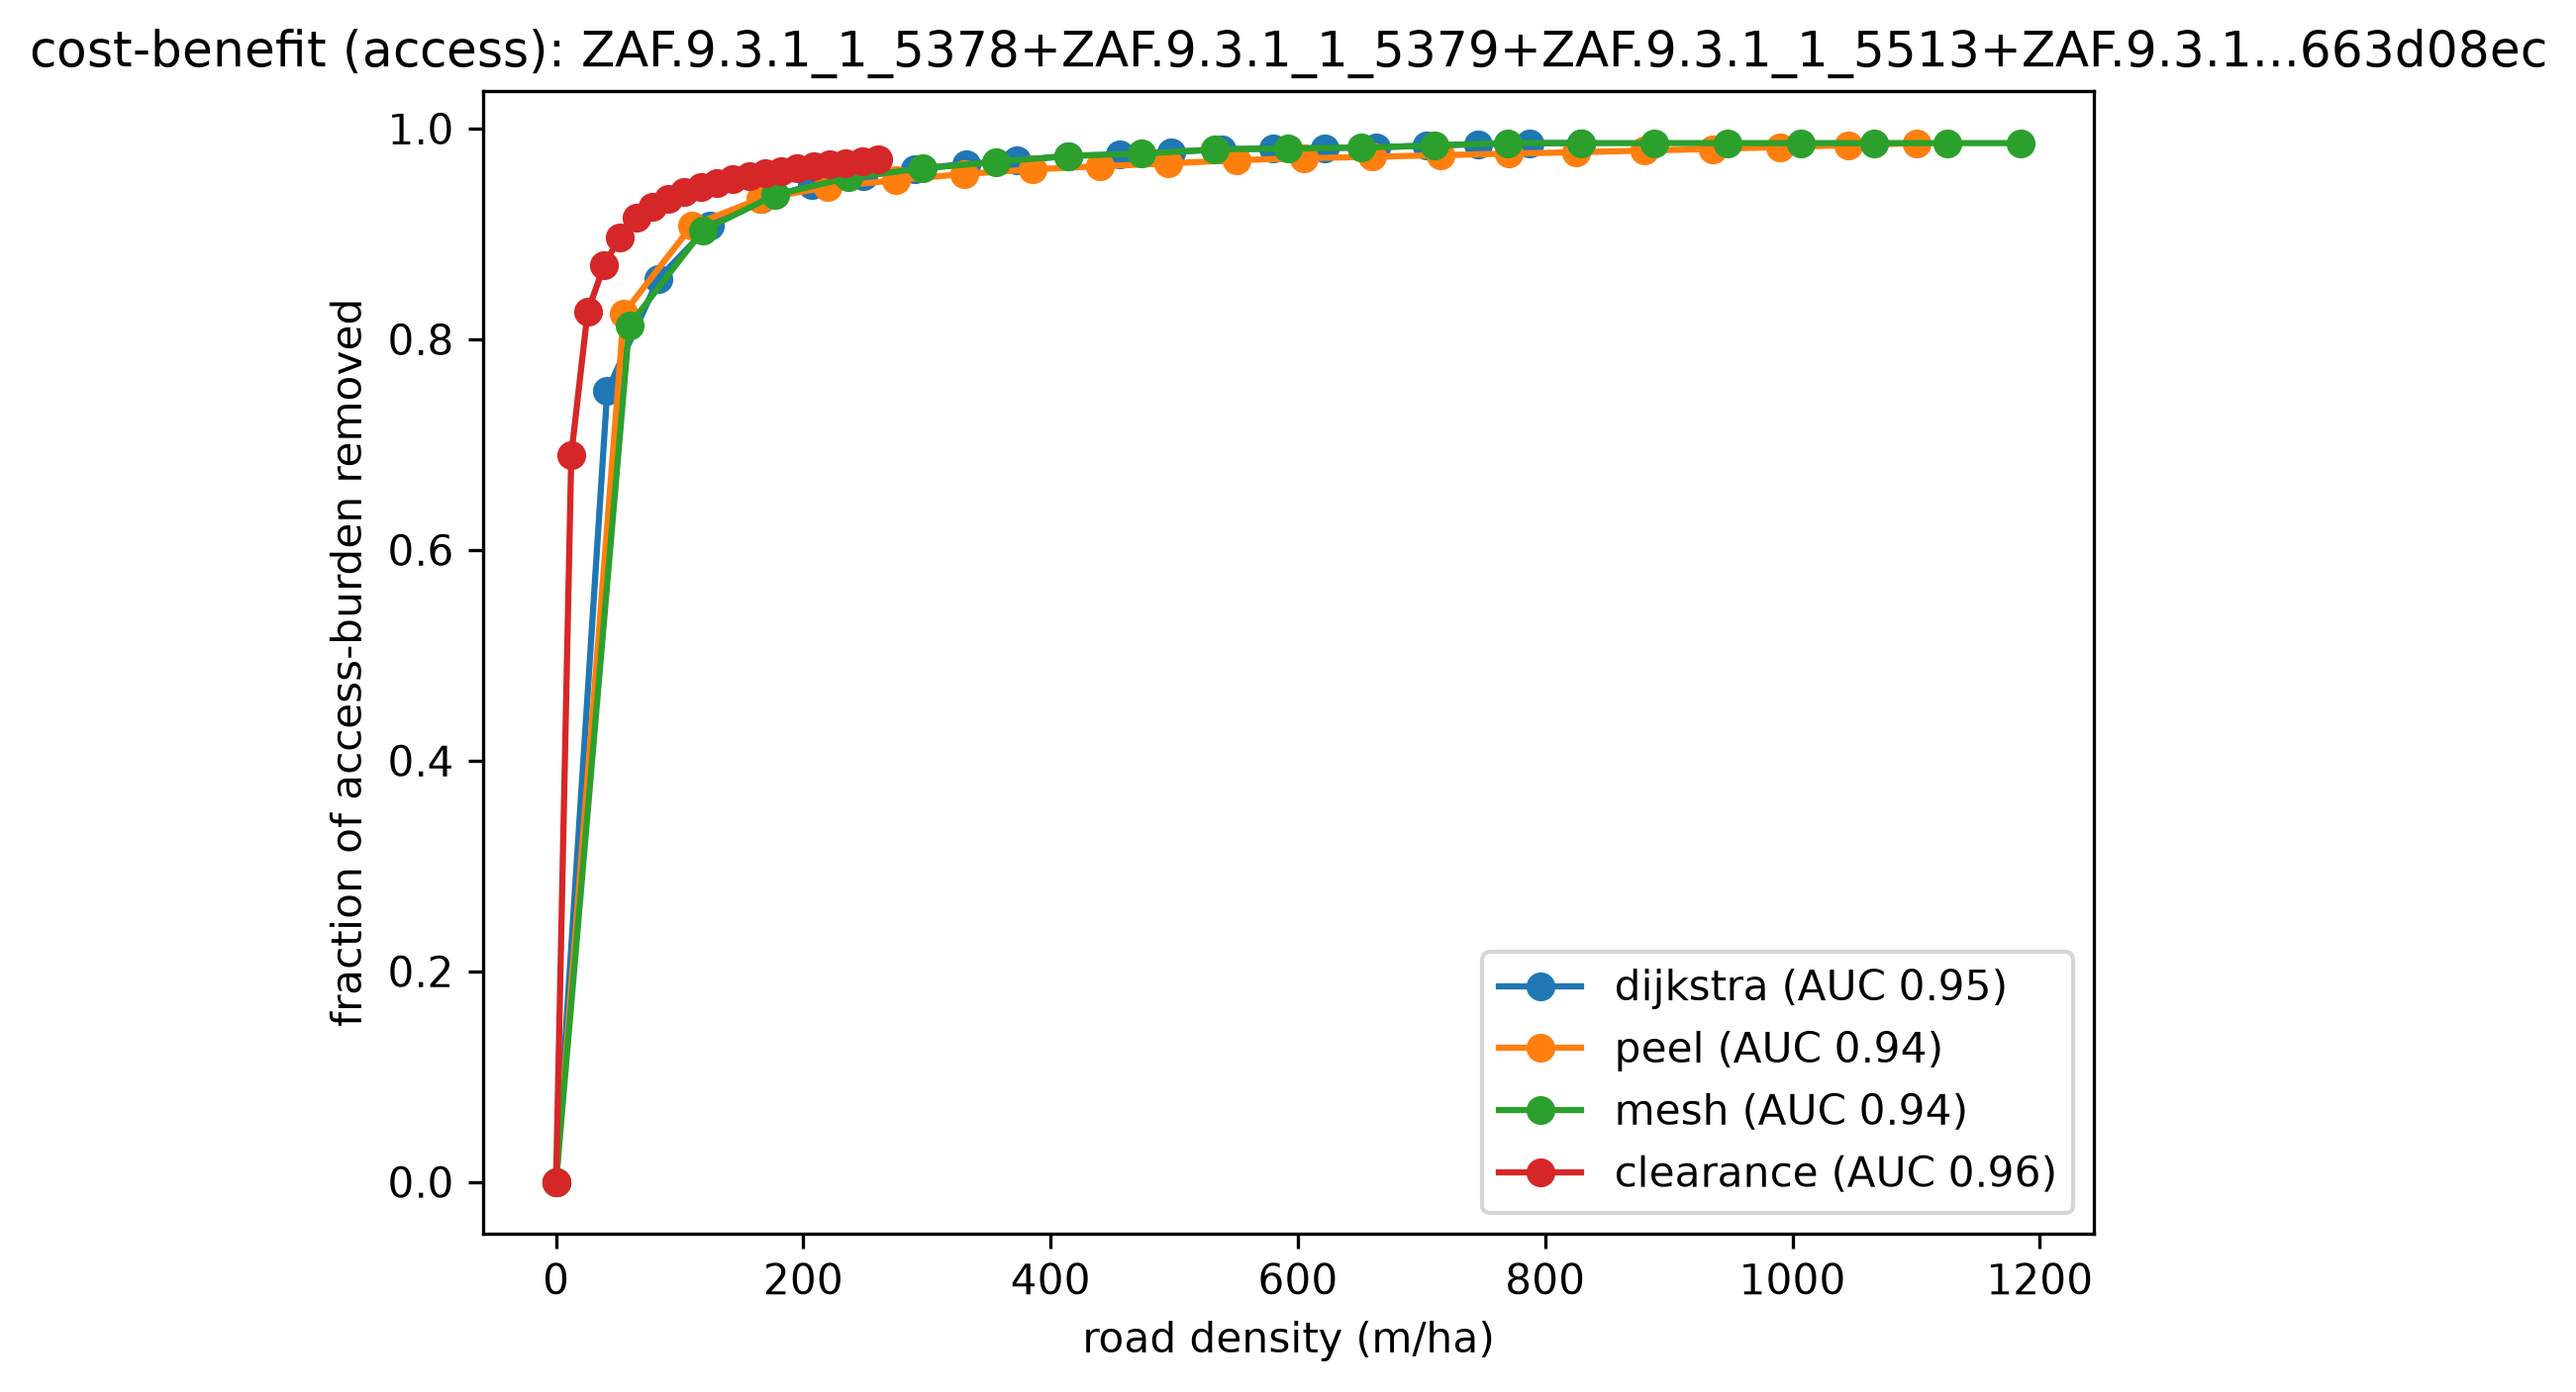
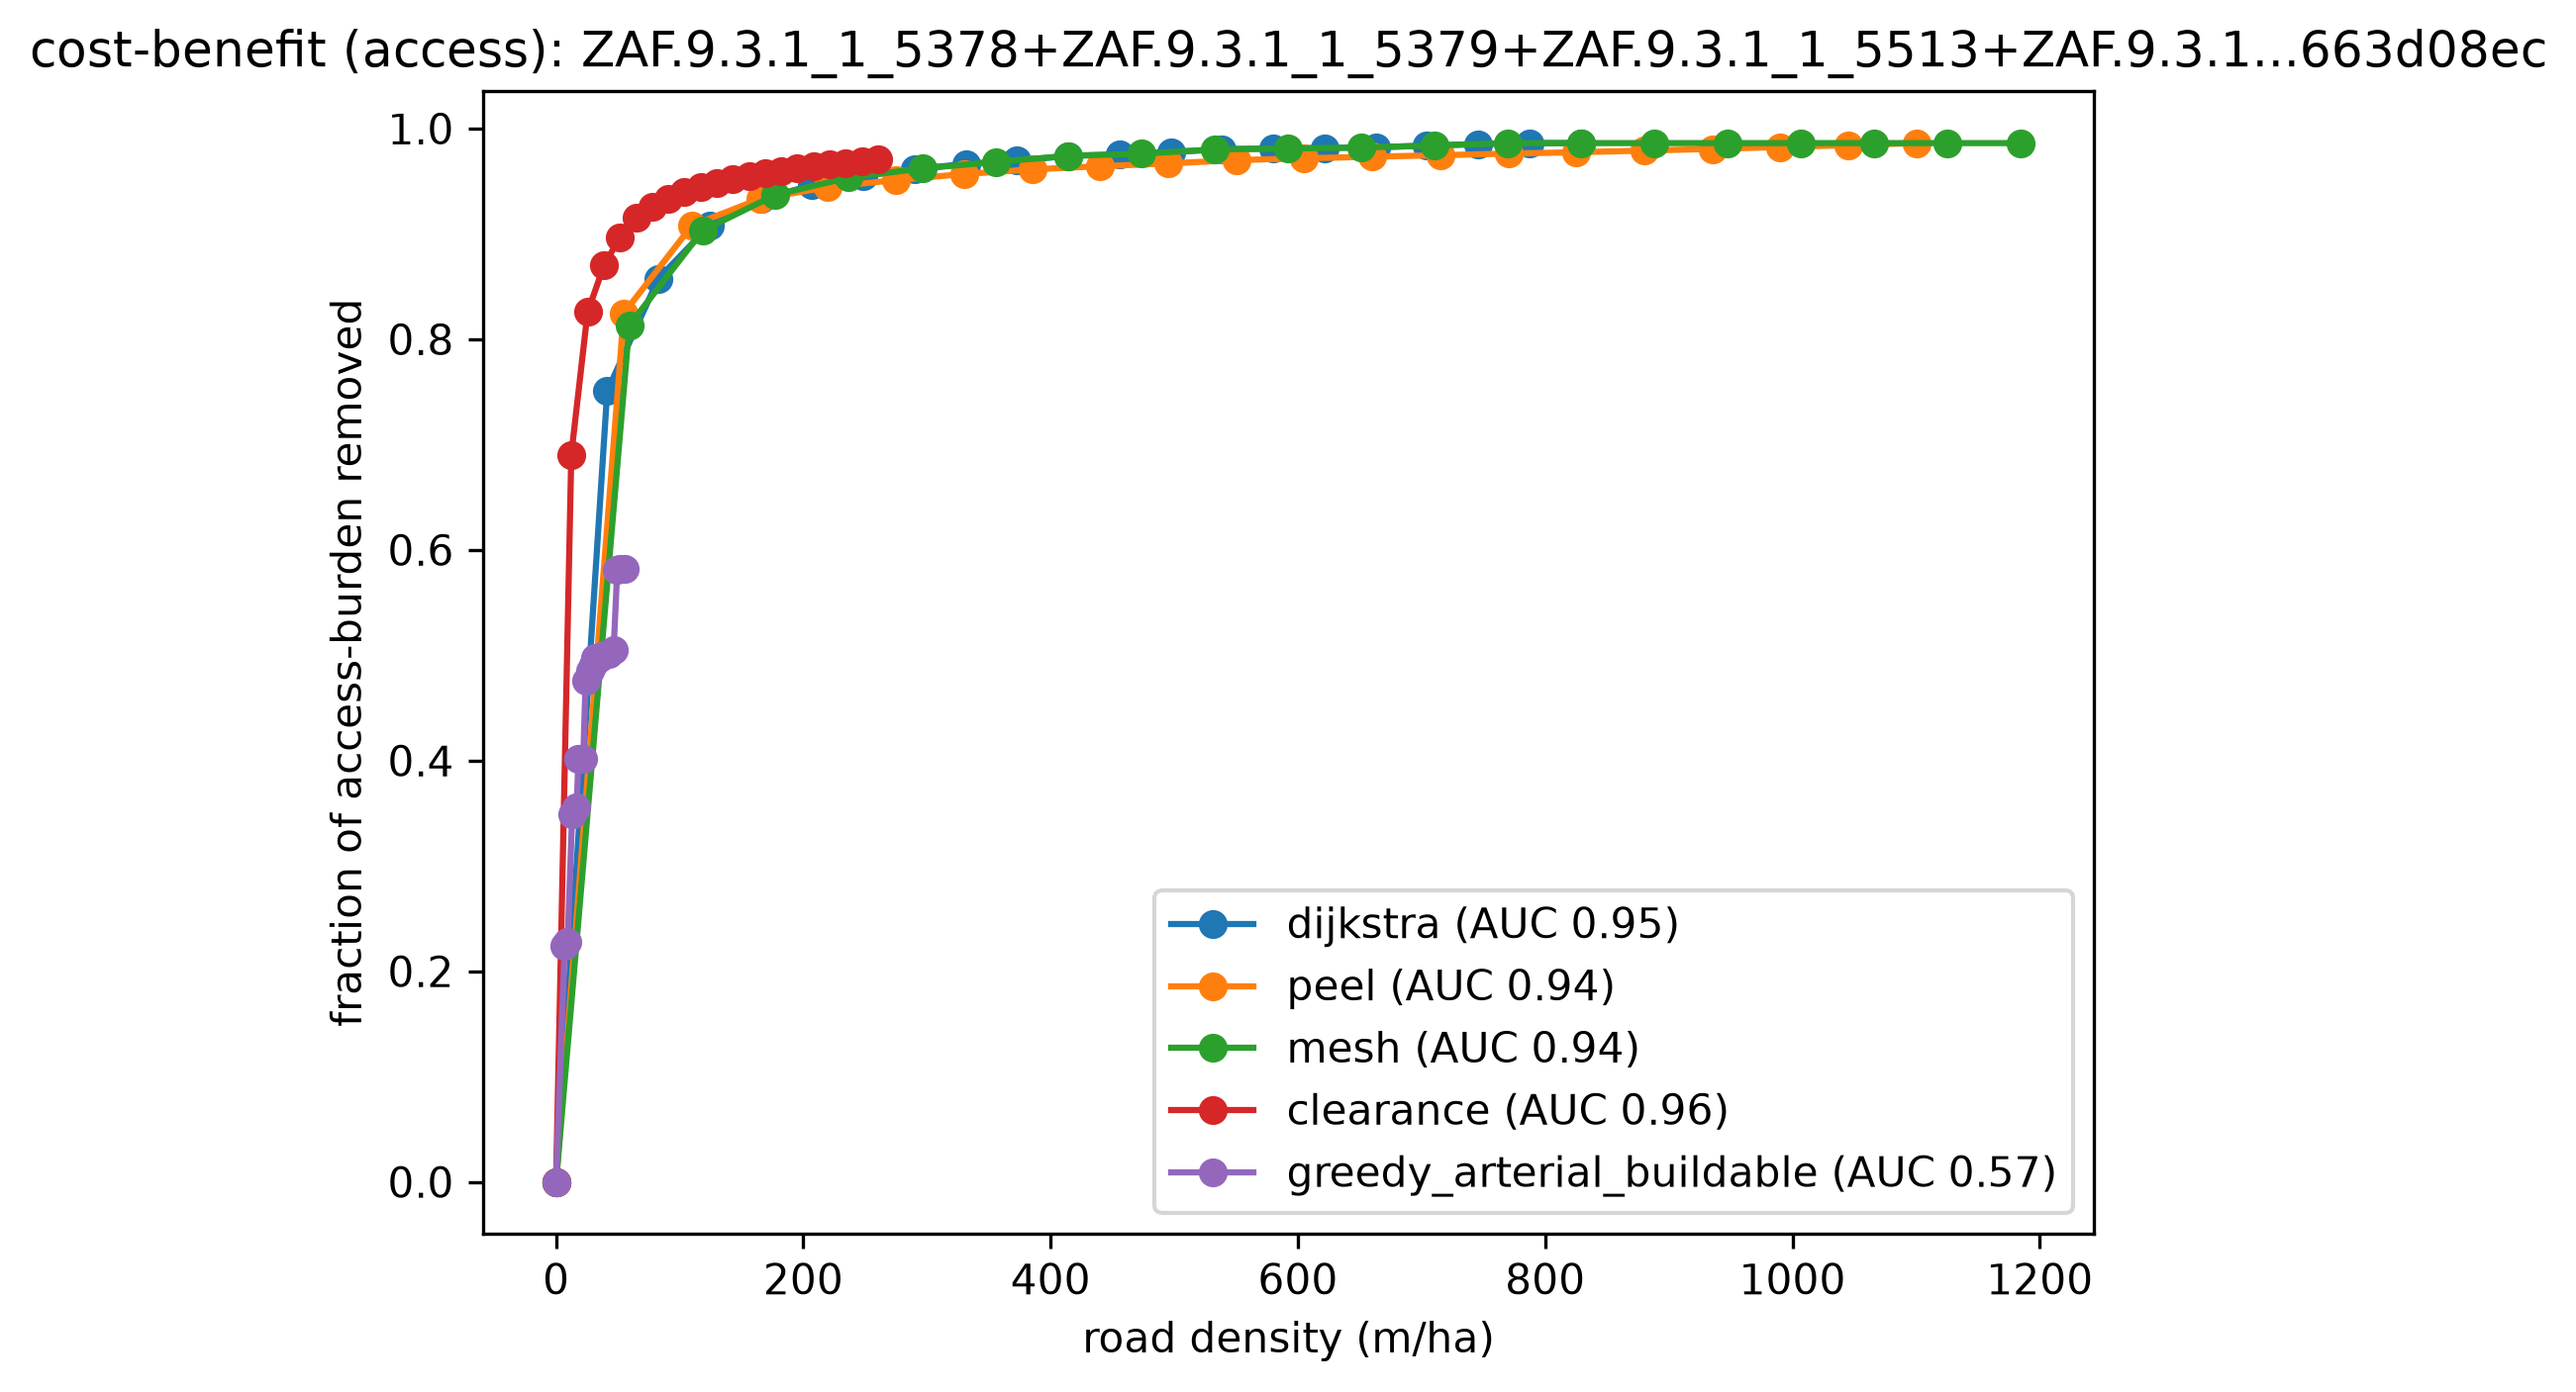
docs(multiblock): arterial rejoins via CELF; efficiency + displacement + %-paved/displaced

diff --git a/examples/multiblock/README.md b/examples/multiblock/README.md
@@ -7,8 +7,9 @@ through it so every home lands within **3 parcels of a street** — then compare
 
 Reproduces from **`capetown_full`** (the full metro, auto-downloaded to `~/.cache/reblock` on first
 use) via plain CLI commands. For the *comprehensive* method bake-off — all six reblockers, including
-the two that don't scale to a region (`topology`, `greedy_arterial`) — see
-[`method-comparison`](../method-comparison/) on a single deep block.
+`topology`, which is single-block-only — see [`method-comparison`](../method-comparison/) on a single
+deep block. (`greedy_arterial` used to be region-intractable too; **CELF/lazy now brings it back** —
+it's in the §4 comparison below.)
 
 ## 1. Screen the metro
 
@@ -59,30 +60,68 @@ takes the screen's deepest block as the seed; `region_map.enabled` writes `scree
 ## 4. Compare the methods that scale
 
 The same 10,700-home region, graded on the four lenses for the methods that run at settlement scale.
-`topology` (single-block only) and full `greedy_arterial` (~55 s/road) don't — for the six-method
+Only `topology` (single-block-only) is excluded now — **`greedy_arterial` rejoins** via CELF/lazy
+(`candidate_policy=fixed` + `max_anchors=64` bound its candidate pass, so its 15 through-roads take
+~30 s on the whole region instead of the ~48 min the uncapped greedy needed). For the six-method
 bake-off on a small block, see [`method-comparison`](../method-comparison/).
 
 ```bash
 pixi run python -m reblock.compare \
   data=capetown_full region_builder=dense_cluster region_builder.max_buildings=3000 \
-  "block_ids=[[ZAF.9.3.1_1_5810]]" methods=[dijkstra,peel,mesh,clearance] max_blocks=1 \
-  all_methods.clearance.max_roads=3000
+  "block_ids=[[ZAF.9.3.1_1_5810]]" \
+  methods=[dijkstra,peel,mesh,clearance,greedy_arterial_buildable] max_blocks=1 \
+  all_methods.clearance.max_roads=3000 \
+  all_methods.greedy_arterial_buildable.candidate_policy=fixed \
+  +all_methods.greedy_arterial_buildable.max_anchors=64
 ```
 
-| lens | dijkstra | peel | mesh | clearance |
-|---|---|---|---|---|
-| access — burden removed | 0.94 | 0.94 | 0.94 | **0.96** |
-| resistance — egress removed | **0.64** | 0.50 | 0.61 | 0.42 |
-| directness — 1/circuity | 0.00 | 0.00 | 0.05 | **0.08** |
-| efficiency — network E | 0.00 | 0.00 | 0.00 | 0.00 |
+Mean AUC per method (benefit per metre of road; higher = better), with **`% paved`** = fraction of
+the region's area under the road corridor:
 
-At this scale every method blankets access near-perfectly (~0.94–0.96) — a deep region is exactly
-where roads matter most. **clearance is the best all-rounder**: it edges out the coverage methods on
-access *and* leads directness (its least-cost roads cut more direct interior routes). **dijkstra wins
-resistance** — its frontage spanning tree gives the most redundant egress. So at scale: clearance for
-a navigable, well-covered reblock; dijkstra when egress redundancy is the goal.
+| lens | dijkstra | peel | mesh | clearance | arterial |
+|---|---|---|---|---|---|
+| access — burden removed | 0.95 | 0.94 | 0.94 | **0.96** | 0.57 |
+| resistance — egress removed | **0.64** | 0.50 | 0.61 | 0.42 | 0.09 |
+| directness — 1/circuity | 0.00 | 0.00 | 0.05 | 0.08 | **0.09** |
+| efficiency — network E | 0.00 | 0.00 | 0.00 | 0.00 | 0.00 |
+| **% paved** | 50% | 61% | 57% | 15% | **3%** |
 
-![access](compare_access.png) ![resistance](compare_resistance.png) ![directness](compare_directness.png)
+At this scale the coverage methods blanket access near-perfectly (~0.94–0.96) — a deep region is
+exactly where roads matter most. **clearance is the best all-rounder**: it wins access, is nearly tied
+for directness, and paves a quarter of what the frontage methods do (15% vs 50–61%). **dijkstra wins
+resistance** — its frontage spanning tree gives the most redundant egress. And **`greedy_arterial`,
+now scalable via CELF, wins directness** (0.089, just ahead of clearance's 0.078) at the **sparsest
+paving of all (3%)** — its handful of straight through-roads cut the most direct interior routes,
+though that sparseness costs it on access/resistance (it doesn't try to cover). So at scale: clearance
+for a navigable, well-covered reblock; dijkstra for egress redundancy; arterial for maximal directness
+at minimal road.
+
+![access](compare_access.png) ![resistance](compare_resistance.png)
+![directness](compare_directness.png) ![efficiency](compare_efficiency.png)
+
+`efficiency` (network E) is near-inert at this scale — the many far-apart parcel pairs swamp it.
+
+### Displacement at scale
+
+Re-graded on the **displacement** cost axis (buildings whose footprint falls in the road corridor).
+Across a 10,700-home region the sparse-vs-dense gap is stark:
+
+| method | terminal directness | buildings displaced | % displaced |
+|---|---|---|---|
+| **greedy_arterial** | 0.09 | **216** | **2.0%** |
+| clearance | 0.09 | 2,056 | 19.2% |
+| dijkstra | 0.00 | 3,121 | 29.2% |
+| mesh | 0.23 | 4,573 | 42.7% |
+| peel | 0.01 | 9,375 | 87.6% |
+
+**Arterial reaches clearance's directness (0.09) displacing just 216 homes — clearance displaces
+2,056, and the dense frontage methods far more (mesh 4,573, peel nearly the whole region at 9,375).**
+Displacement tracks road footprint, so the sparse through-road / least-cost methods are dramatically
+gentler on the fabric. `mesh` reaches higher *absolute* directness (0.23) but at 21× arterial's
+displacement. (AUC over the displacement axis is meaningless, so this is read from the terminal
+points.)
+
+![directness vs displacement](compare_directness_displacement.png)
 
 ## 5. The depth_target tradeoff — why 3
 
